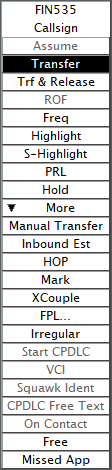
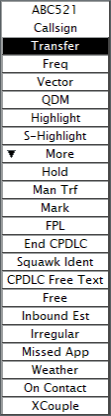
docs waypoint menu

diff --git a/LPPC/Plugins/topsky/Documentation/Latex/TOPLIS/TOPLIS Manual.tex b/LPPC/Plugins/topsky/Documentation/Latex/TOPLIS/TOPLIS Manual.tex
@@ -3516,14 +3516,15 @@ The following Label Compaction rules are in place:
 
 \section{Track Label Menus}
 
-These menus are opened from track label fields or flight lists. Except for the confirmation windows, they are closed automatically when a menu option is chosen or the mouse cursor leaves the menu area. Menu items shown with (X) represent an item that has an activated and a deactivated state. With the item activated, the item name is shown prefixed with the letter “X”. The mouse wheel can be used to scroll the selection lists in the menus.
+These menus are opened from track label fields or flight lists. Except for the confirmation windows, they are closed automatically when a menu option is chosen or the mouse cursor leaves the menu area. The mouse wheel can be used to scroll the selection lists in the menus.
 
 \bigskip
 
 Many of the menus have a default item or value, displayed with inverse video. The menu usually opens so that the default value is located under the mouse cursor for easy selection. Some menus contain items that open folders within the menu. They show a filled triangle before the item name (upright if the folder is closed, inverted if the folder is open). The “More” folder is opened automatically when the mouse cursor is placed over it or if the default item is in the “More” folder, other folders must be left-clicked to open.
 
-\subsection{Callsign Menu}
-\label{menu:cs}
+\subsection{Callsign Menu}\label{menu:cs}
+
+Items in the callsign menu that are currently not available (for example “Assume” for a track that is not free or being transferred in) are hidden to make the menu as small as possible, so the example images below do not show all the possible items. In the other menus the unavailable items are displayed with \colorref{Arm} color.
 
 \subsection*{Controlled Track}
 
@@ -3533,35 +3534,36 @@ Many of the menus have a default item or value, displayed with inverse video. Th
 Assume                    & Assumes track\\
 Refuse                    & Refuses the incoming transfer\\
 Transfer                  & Initiates a transfer to the next sector\\
-Trf \& Release            & Opens the \winref{menu:xfrrel}\\
 ROF                       & Sends a \winref{menu:rof}\\
 (X)Freq                   & Toggles the \tagref{tag:Frequency dot}\\
 (X)Highlight              & Toggles the Callsign highlight\\
 (X)S-Highlight            & Toggles the Callsign+AFL fields highlight\\
-PRL                       & Opens the \winref{menu:prl}\\
+Vector                    & Opens the \winref{menu:prl}\\
+QDM                       & Starts a QDM line from this track\\
 (X)Hold                   & “Hold” opens the \winref{menu:hold}, “XHold” cancels a given holding clearance\\
 $\blacktriangledown$ More & Shows additional less frequently used options\\
-Manual Transfer           & Opens the \winref{menu:mxfr}\\
-(X)Inbound Est            & Toggles the “Inbound Est” manual alert\\
+Man Trf                   & Opens the \winref{menu:mxfr}\\
 HOP                       & Initiates a \winref{win:hop}\\
 (X)Mark                   & Toggles the \tagref{tag:Mark dot}\\
-(X)Couple                 & Uncorrelates/correlates the flight plan\\
-FPL…                      & Opens the \winref{win:fpw}\\
-(X)Irregular              & Toggles the “Irregular” manual alert\\
+FPL                       & Opens the \winref{win:fpw}\\
 Start/End CPDLC           & Starts/Ends CPDLC connection with the aircraft\\
 VCI                       & Opens the \winref{menu:vci}\\
 Squawk Ident              & Sends a “SQUAWK IDENT” CPDLC message to the aircraft\\
 CPDLC Free Text           & Opens the \winref{menu:dlftm}\\
 Free                      & Releases track\\
-On Contact                & Sets track \stateref{On Contact}\footnotemark[1]\\
+(X)Inbound Est            & Toggles the “Inbound Est” manual alert\\
+(X)Irregular              & Toggles the “Irregular” manual alert\\
 (X)Missed App             & Toggles the “Missed App” manual alert\\
+(X)Weather                & Toggles the “Weather” manual alert\\
+On Contact                & Sets track \stateref{On Contact}\footnotemark[1]\\
+(X)Couple                 & Uncorrelates/correlates the flight plan\\
 \end{longtable}
 
 \footnotetext[1]{Clicking “On Contact” for a track with “Y” or “Z” flight rules will also automatically change the flight rules in the VATSIM flight plan to VFR in order to make it uncontrolled. The displayed flight rules are not affected.}
 
 \bigskip
 
-Besides the manual alerts, none of the selectable toggle options in this menu will be transmitted to other controllers, but the “Mark”, “Freq” and highlight selections will be seen in your other EuroScope instances. A holding clearance is transmitted to the next controller when transferring the track. To correlate a flight plan, first click on the “Correlate” item, and then click on the radar position symbol of the desired radar track.
+Besides the manual alerts, none of the selectable toggle options in this menu will be transmitted to other controllers, but the “Mark”, “Freq” and highlight selections will be seen in your other EuroScope instances. A holding clearance is broadcast to all controllers in range when given, and additionally transmitted to the next controller when transferring the track. To correlate a flight plan, first click on the "Couple" item, and then click on the radar position symbol of the desired radar track.
 
 \bigskip
 
@@ -3570,15 +3572,19 @@ Besides the manual alerts, none of the selectable toggle options in this menu wi
 \capdimage{img/cmuncon.png}{Uncontrolled Track Callsign Menu}
 
 \begin{tabular}{l l l}
-On Contact        & Sets track \stateref{On Contact} \\
-Free              & Releases track\\
-Assume            & Assumes track\footnotemark[1]\\
-(X)Highlight      & Toggles the Callsign highlight\\
-(X)S-Highlight    & Toggles the Callsign+AFL fields highlight\\
-(X)Couple         & Uncorrelates/correlates the flight plan\\
-(X)Hold           & “Hold” opens the \winref{menu:hold}, “XHold” cancels a given holding clearance\\
-FPL...            & Opens the \winref{win:fpw}\\
-PRL               & Opens the \winref{menu:prl}\\
+On Contact                & Sets track \stateref{On Contact} \\
+Assume                    & Assumes track\footnotemark[1]\\
+Vector                    & Opens the \winref{menu:prl}\\
+QDM                       & Starts a QDM line from this track\\
+(X)Highlight              & Toggles the Callsign highlight\\
+(X)S-Highlight            & Toggles the Callsign+AFL fields highlight\\
+$\blacktriangledown$ More & Shows additional less frequently used options\\
+(X)Hold                   & “Hold” opens the \winref{menu:hold}, “XHold” cancels a given holding clearance\\
+(X)Mark                   & Toggles the Mark indicator\\
+(X)Freq                   & Toggles the Freq indicator\\
+Free                      & Releases track\\
+FPL                       & Opens the \winref{win:fpw}\\
+(X)Couple                 & Uncorrelates/correlates the flight plan\\
 \end{tabular}
 
 \footnotetext[1]{Clicking “Assume” for a track with “Y” or “Z” flight rules will also automatically change the flight rules in the VATSIM flight plan to IFR in order to make it controlled. The displayed flight rules are not affected.}
@@ -3589,9 +3595,12 @@ PRL               & Opens the \winref{menu:prl}\\
 \capdimage{img/cmuncor.png}{Uncorrelated Track Callsign Menu}
 
 \begin{tabular}{l l l}
-Correlate       & Correlates the radar track with the next clicked “Callsign” field
-\\Create APL    & Opens the \winref{win:apl}
-\\PRL           & Opens the \winref{menu:prl}
+IFR APL         & Opens the \winref{win:apl} (with FRUL=I and S-Highlight on)\\
+Create APL      & Opens the \winref{win:apl}\\
+Vector          &  Opens the \winref{menu:prl}\\
+(X)Highlight    & Toggles the TSSR/FLTID highlight\\
+Couple          & Correlates the radar track with the next clicked “Callsign” field\\
+QDM             & Starts a QDM line from this track\\
 \end{tabular}
 \medskip
 
@@ -3617,27 +3626,6 @@ For CPDLC connected aircraft, the menu contains options related to the transfer.
 
 If an aircraft has a defined XFL value and hasn’t been cleared to it (CFL is not equal to XFL), attempting to transfer the aircraft will open a Transfer Confirmation Window in the middle of the radar screen. While the window is open it will block all other attempts to click on items elsewhere on the radar screen. Either click on “Transfer” to transfer the aircraft regardless of the situation, or “Cancel” to cancel the transfer.
 
-\subsection{Transfer \& Release menu}
-\label{menu:xfrrel}
-
-\capdimage{img/xfrrel.png}{Transfer \& Release menu}
-
-The Transfer \& Release menu allows specifying a release condition for a track to be transferred. The transfer is initiated after selecting the desired condition (climb, descent, turn or full). The release will be shown on line 0 of the track label (C for climb, D for descent, T for turn and F for full). The transferring controller will see the label item until the track becomes unconcerned. The receiving controller will see the item for 3 minutes after the track is assumed.
-
-\capdimage{img/xfrreldl.png}{CPDLC Transfer \& Release menu}
-
-For CPDLC connected aircraft, the menu contains options related to the transfer:
-
-\bigskip
-
-“Monitor” / “Contact” select which of the two CPDLC message types will be sent.
-
-\bigskip
-
-“R/T” / “CPDLC” select whether the transfer instruction is given via radio or as a CPDLC message.
-
-\warn{The “Trf \& Release” option will show the release condition on the downstream side only if the next controller is using this plugin, in other cases the transfer will be shown as a normal transfer.}
-
 \subsection{Request On Frequency message}
 \label{menu:rof}
 
@@ -3649,12 +3637,12 @@ See \winref{coo:rof}. For the message to succeed, you must be seen as the next c
         \item If there is an error or the message fails to go through, a message will be put into the \winref{win:pqw}
 \end{enumerate}}
 
-\subsection{Hold Menu}
+\subsection{Hold/Susp Menu}
 \label{menu:hold}
 
 \capdimage{img/hold.png}{Hold Menu}
 
-The Hold menu allows you to enter a holding clearance, adding the aircraft to the \winref{list:hold}. It displays for selection the points in the aircraft’s route that are ahead of its current position.
+The Hold/Susp menu allows you to enter a holding clearance, adding the aircraft to the \winref{list:hold}. It displays for selection the points in the aircraft’s route that are ahead of its current position.
 
 \bigskip
 
@@ -3666,7 +3654,7 @@ Left-clicking “Here” enters the present position coordinates as the holding 
 
 \bigskip
 
-The holding point is automatically sent to your other EuroScope instances with a small delay and can be sent to other controllers by pushing the flight strip as the information is stored there.
+The “Suspend” folder contains a list of all currently active TSA areas. Left-clicking on one sets the aircraft to a TSA Hold. A TSA Hold clearance will exclude the aircraft from all APW and SAP processing.
 
 \subsection{Manual Transfer Menu}
 \label{menu:mxfr}
@@ -3734,35 +3722,39 @@ This menu is used to set an arrival sequence number. Values from 1 to 50 are ava
 
 \capdimage{img/wpt.png}{Waypoint Menu}
 
-\begin{longtable}{p{5cm} p{7.5cm}}
-$\blacktriangle$  Routing & Opens the “COPN point” or “COPX point” submenu (EuroScope default item)\\
-$\blacktriangle$ Arrival & Opens the “Assign STAR” submenu (EuroScope default item)\\
-$\blacktriangle$ Departure & Opens the “Assign SID” submenu (EuroScope default item)\\
-$\blacktriangle$ TSA Hold & Opens the TSA Hold submenu (not available if a holding clearance is active)\\
-$\blacktriangle$ Hold & Opens the Hold submenu (not available if a TSA holding clearance is active)\\
-\end{longtable}
+This menu gives access to functions related to the route of the aircraft. It is used to assign direct-to clearances, holding clearances, and to coordinate the sector entry/exit point.
 
 \bigskip
 
-This menu gives access to functions related to the route of the aircraft. It is used to assign direct-to clearances, departure and arrival routes, holding clearances, and to coordinate the sector entry/exit point.
+Left-clicking on a point in the list sets a direct-to clearance to that point. Any point name can be manually entered in the box at the bottom of the menu.
+
+\warn{Note that no coordination is performed. If coordination is necessary, right-click any point name to open the EuroScope “COPN/COPX point” popup list or use the “Probe” button instead.}
+
+\bigskip
+
+When the aircraft is CPDLC-connected and the coordination is an exit coordination, the menu offers a choice between “R/T” and “CPDLC”. The chosen option decides how a clearance is communicated to the aircraft.
+
+\bigskip
+
+“Probe” opens the EuroScope “COPN point” or “COPX point” popup list and draws the Flight Leg for the flight. Moving the mouse cursor over the points in the popup can be used to probe the effects of possible route changes. Allow up to 5 seconds after each point change for FPCP to update. The popup is also used to start point coordinations.
+
+\bigskip
+
+For “HOP” see \winref{menu:ahdg}.
+
+\bigskip
+
+Left-clicking “Hold” opens the \winref{menu:hold}. If a holding clearance already exists, the button will read “XHold” and clicking it will remove the clearance.
 
 \capdimage{img/wptyn.png}{Waypoint Menu in Coordination}
 
-When an entry or exit coordination has been received, the menu opens looking like this instead. The options are:
+When an entry or exit coordination has been received, the menu options are:
 
 \begin{longtable}{p{5cm} p{7.5cm}}
-$\blacktriangle$ Routing    & Opens the “COPN point” or “COPX point” submenu (EuroScope default item)
-\\Accept                      & Accepts the coordination
-\\Reject                      & Rejects the coordination
+Accept                    & Accepts the coordination\\
+Reject                    & Rejects the coordination\\
+Probe                     & Opens EuroScope popup to counter-propose another point\\
 \end{longtable}
-
-The submenu opened with “Routing” offers the same possibilities to accept or reject the coordination, but also the possibility to counter-propose a different point.
-
-\capdimage{img/wptdl.png}{CPDLC DCT Request Downlink Waypoint Menu}
-
-When the aircraft is CPDLC-connected and the coordination is an exit coordination, the menu offers a choice between “R/T” and “CPDLC”. The chosen option decides how an accepted coordination is communicated to the aircraft.
-
-\bigskip
 
 With “CPDLC” selected, when “Accept” is clicked, in addition to the coordination being accepted, a “PROCEED DIRECT TO <point>” CPDLC message is sent to the aircraft.
 
@@ -4896,6 +4888,30 @@ Middle-click aircraft position symbol
 
 The Individual Quick Look function can be used to override the CJI filter for a specific track and to display labels for uncoupled primary tracks which are normally automatically hidden. It is a toggle function, middle-clicking again will hide the labels again.
 
+{Level Band Highlight}\label{func:lbh}
+
+Right click AFL track label item 
+
+\bigskip
+
+While active, this function highlights the callsigns of the referenced flight and the callsigns of all other flights within the level band of the referenced flight. The prediction line is forced on for these flights.
+
+\bigskip
+
+All other flights will be filtered out to display just their track position symbols and history dots unless they have an active STCA, APW, MSAW or AIW warning or are squawking 7500, 7600 or 7700. Tracks without a valid AFL will be filtered out.
+
+\subsection{Oceanic Level highlight}\label{func:olh}
+
+Right click OFL track label item 
+
+\bigskip
+
+While active, this function highlights the callsigns of the referenced flight and the callsigns of all other flights having the same OAN and OFL. The prediction line is forced on for these flights.
+
+\bigskip
+
+All other flights will be filtered out to display just their track position symbols and history dots unless they have an active STCA, APW, MSAW or AIW warning or are squawking 7500, 7600 or 7700.
+
 \subsection{Brightness Control Window}
 \label{win:bcw}
 
@@ -5651,16 +5667,23 @@ The window closes automatically when the message is sent or the mouse cursor lea
 
 The CPDLC History Message Window contains CPDLC messages that have been archived from the \winref{win:dlcmw}.
 
-\subsection{Cursor Lat/Long Window}
-\label{win:latlon}
+\subsection{Cursor Lat/Long Window}\label{win:latlon}
 
-\winref{menu:global} Tools -> LAT/LONG...
+\winref{menu:radarm} -> LAT/LONG…
 
 \bigskip
 
 \capdimage{img/latlon.png}{Cursor Lat/Long Window}
 
 Displays the latitude and longitude values of the cursor position.
+
+\subsection{Find Track}\label{func:findt}
+
+\winref{menu:radarm} -> Find Track 
+
+\bigskip
+
+The Find Track function highlights for a specified time all labels matching the specified TSSR, ASSR or PSSR with Temp Track Highlight color.
 
 \subsection{Weather Messages Window}
 \label{win:wxmw}
